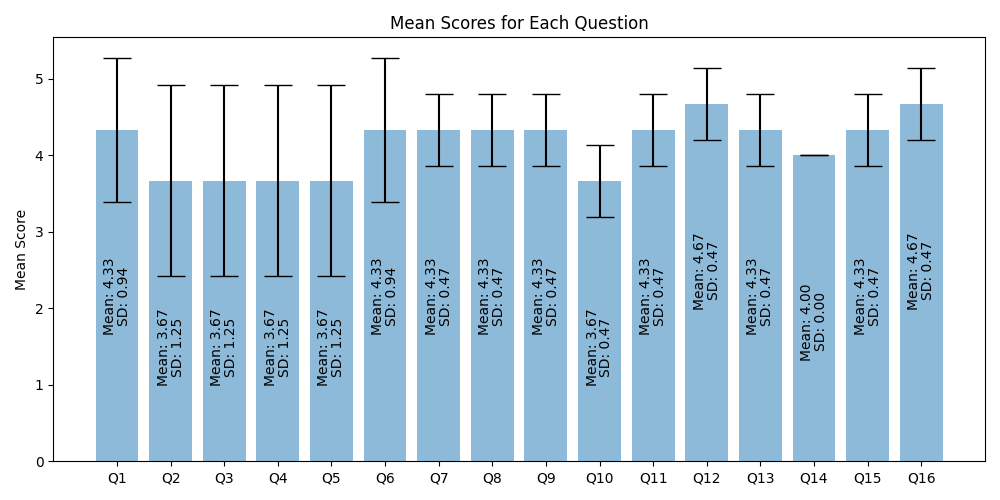
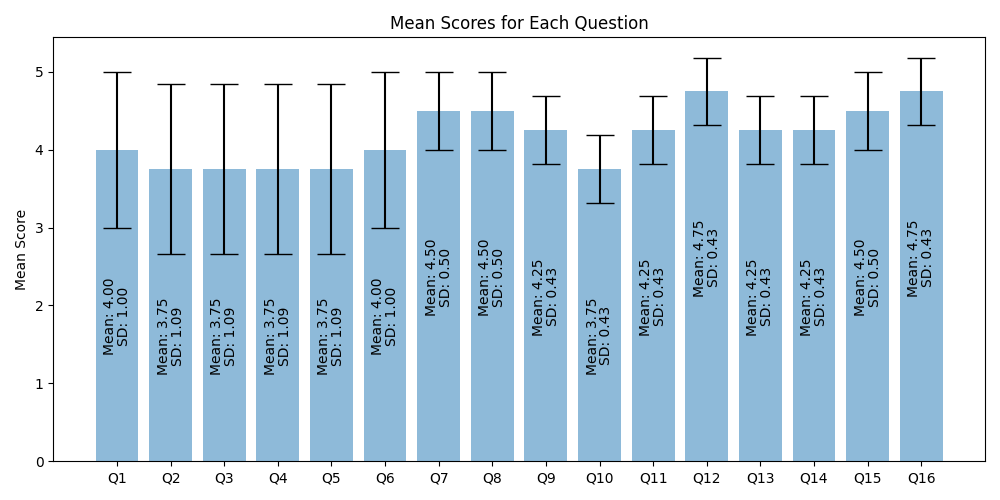
added t-04

diff --git a/aim1/descriptive_stats.py b/aim1/descriptive_stats.py
@@ -1,7 +1,7 @@
-'''This module contains code for computing descriptive statistics from aim 1 quenstionnaires.'''
+"""This module contains code for computing descriptive statistics from aim 1 quenstionnaires."""
 
-import numpy as np # type: ignore
-import matplotlib.pyplot as plt # type: ignore
+import numpy as np  # type: ignore
+import matplotlib.pyplot as plt  # type: ignore
 
 # dictionary of questions and their corresponding indices
 questions = {
@@ -20,18 +20,21 @@ questions = {
     12: "I found the CDSS very cumbersome to use, and the presented metrics were not clear.",
     13: "I would imagine that most people would learn to use this CDSS very quickly.",
     14: "The information presented by the CDSS would potentially influence patient therapy plans.",
-    15: "Presenting the information in this format is NOT useful to me or my assessment of patients."
+    15: "Presenting the information in this format is NOT useful to me or my assessment of patients.",
 }
 
 # list of questions to be reverse scored
 reverse_scored = [0, 2, 4, 9, 10, 12, 15]
 
 # scores for each question from each participant (rows are participants, columns are questions)
-scores = np.array([
-    [1, 4, 2, 4, 2, 5, 4, 4, 4, 2, 2, 5, 2, 4, 4, 1], # T-01
-    [1, 5, 1, 5, 1, 5, 5, 5, 5, 2, 1, 5, 1, 4, 5, 1], # T-02
-    [3, 2, 4, 2, 4, 3, 4, 4, 4, 3, 2, 4, 2, 4, 4, 2], # T-03
-])
+scores = np.array(
+    [
+        [1, 4, 2, 4, 2, 5, 4, 4, 4, 2, 2, 5, 2, 4, 4, 1],  # T-01
+        [1, 5, 1, 5, 1, 5, 5, 5, 5, 2, 1, 5, 1, 4, 5, 1],  # T-02
+        [3, 2, 4, 2, 4, 3, 4, 4, 4, 3, 2, 4, 2, 4, 4, 2],  # T-03
+        [3, 4, 2, 4, 2, 3, 5, 5, 4, 2, 2, 5, 2, 5, 5, 1],  # T-04
+    ]
+)
 
 # reverse score questions
 for question in reverse_scored:
@@ -43,14 +46,38 @@ stds = np.std(scores, axis=0)
 
 # plot means and standard deviations
 plt.figure(figsize=(10, 5))
-bars = plt.bar(range(len(means)), means, yerr=stds, align="center", alpha=0.5, ecolor="black", capsize=10)
+bars = plt.bar(
+    range(len(means)),
+    means,
+    yerr=stds,
+    align="center",
+    alpha=0.5,
+    ecolor="black",
+    capsize=10,
+)
 
 # Add mean and standard deviation annotations
 for i, bar in enumerate(bars):
-    plt.annotate(f"Mean: {means[i]:.2f}", xy=(bar.get_x() + bar.get_width() / 2, bar.get_height()), xytext=(-5, -120),
-                 textcoords="offset points", ha='center', va='center', rotation='vertical', color='black')
-    plt.annotate(f"SD: {stds[i]:.2f}", xy=(bar.get_x() + bar.get_width() / 2, bar.get_height()), xytext=(5, -120),
-                 textcoords="offset points", ha='center', va='center', rotation='vertical', color='black')
+    plt.annotate(
+        f"Mean: {means[i]:.2f}",
+        xy=(bar.get_x() + bar.get_width() / 2, bar.get_height()),
+        xytext=(-5, -120),
+        textcoords="offset points",
+        ha="center",
+        va="center",
+        rotation="vertical",
+        color="black",
+    )
+    plt.annotate(
+        f"SD: {stds[i]:.2f}",
+        xy=(bar.get_x() + bar.get_width() / 2, bar.get_height()),
+        xytext=(5, -120),
+        textcoords="offset points",
+        ha="center",
+        va="center",
+        rotation="vertical",
+        color="black",
+    )
 
 plt.xticks(range(len(means)), [f"Q{i+1}" for i in range(len(means))], rotation=0)
 plt.ylabel("Mean Score")
@@ -64,8 +91,16 @@ stds = np.std(scores, axis=1)
 
 # plot means and standard deviations
 plt.figure(figsize=(10, 5))
-plt.bar(range(len(means)), means, yerr=stds, align="center", alpha=0.5, ecolor="black", capsize=10)
-plt.xticks(range(len(means)), ["T-01", "T-02", "T-03"])
+plt.bar(
+    range(len(means)),
+    means,
+    yerr=stds,
+    align="center",
+    alpha=0.5,
+    ecolor="black",
+    capsize=10,
+)
+plt.xticks(range(len(means)), ["T-01", "T-02", "T-03", "T-04"])
 plt.ylabel("Mean Score")
 plt.title("Mean Scores for Each Participant")
 plt.tight_layout()

diff --git a/aim1/SUS_stats.py b/aim1/SUS_stats.py
@@ -1,57 +1,62 @@
-'''This module computes descriptive statistics for the system usability scale (SUS) questionnaire.'''
+"""This module computes descriptive statistics for the system usability scale (SUS) questionnaire."""
 
-import numpy as np # type: ignore
-import matplotlib.pyplot as plt # type: ignore
+import numpy as np  # type: ignore
+import matplotlib.pyplot as plt  # type: ignore
+
 
 def calculate_sus_scores(raw_scores):
     """
     Calculates the System Usability Scale (SUS) scores based on raw Likert scale scores.
-    
+
     Args:
         raw_scores (numpy array): 2D array of raw Likert scale scores.
             Rows represent participants, and columns represent statements.
-    
+
     Returns:
         numpy array: 1D array of SUS scores for each participant.
     """
     # Define the conversion factors for odd- and even-numbered statements
     odd_conversion = np.array([1, 3, 5, 7, 9])
     even_conversion = np.array([2, 4, 6, 8, 10])
-    
+
     # Convert the raw scores to SUS scores
     sus_scores = np.zeros(raw_scores.shape[0])  # Initialize array to store SUS scores
     for i, scores in enumerate(raw_scores):
         odd_scores = scores[odd_conversion - 1] - 1
         even_scores = 5 - scores[even_conversion - 1]
         sus_scores[i] = (np.sum(odd_scores) + np.sum(even_scores)) * 2.5
-    
+
     return sus_scores
 
+
 # Participant responses to SUS statements (1 to 10)
-sus_responses = np.array([
-    [4, 2, 4, 2, 4, 2, 4, 1, 4, 3],  # T-01
-    [5, 1, 5, 2, 5, 1, 5, 1, 5, 1],  # T-02
-    [2, 2, 4, 2, 4, 2, 5, 2, 4, 2],  # T-03
-])
+sus_responses = np.array(
+    [
+        [4, 2, 4, 2, 4, 2, 4, 1, 4, 3],  # T-01
+        [5, 1, 5, 2, 5, 1, 5, 1, 5, 1],  # T-02
+        [2, 2, 4, 2, 4, 2, 5, 2, 4, 2],  # T-03
+        [4, 2, 5, 2, 4, 1, 5, 1, 4, 2],  # T-04
+    ]
+)
 
 # Calculate SUS scores
 sus_scores = calculate_sus_scores(sus_responses)
 
 # Print SUS scores for each participant
 for i, score in enumerate(sus_scores):
-    print(f'T-0{i + 1}: {score:.2f}')
+    print(f"T-0{i + 1}: {score:.2f}")
 
 # Print mean and standard deviation of SUS scores
-print(f'Mean: {np.mean(sus_scores):.2f}')
-print(f'Standard deviation: {np.std(sus_scores):.2f}')
+print(f"Mean: {np.mean(sus_scores):.2f}")
+print(f"Standard deviation: {np.std(sus_scores):.2f}")
 
 # Plot SUS scores on bar plot, add a horizontal line at 68
 plt.figure(figsize=(10, 4))
-plt.bar(np.arange(1, 4), sus_scores, alpha=0.5, ecolor="black", capsize=10)
-plt.axhline(y=68, color='red', linestyle='--')
-plt.xticks(np.arange(1, 4), labels=['T-01', 'T-02', 'T-03'])
-plt.xlabel('Participant')
-plt.ylabel('SUS score')
+plt.bar(np.arange(1, 5), sus_scores, alpha=0.5, ecolor="black", capsize=10)
+plt.axhline(y=68, color="red", linestyle="--")
+plt.xticks(np.arange(1, 5), labels=["T-01", "T-02", "T-03", "T-04"])
+plt.xlabel("Participant")
+plt.ylabel("SUS score")
 plt.title("System Usability Scale (SUS) Scores for Each Participant")
 plt.ylim(0, 100)
 plt.tight_layout()

diff --git a/dashboard_video_key.py b/dashboard_video_key.py
@@ -36,3 +36,46 @@ video_key_p03 = {
         "GOPR0782",
     ],
 }
+
+video_key_p04 = {
+    "2023-01-15": ["GOPR0880", "GOPR0881", "GOPR0930", "GOPR1055", "GP010880"],
+    "2023-01-16": ["GOPR1066", "GOPR1102", "GOPR1122", "GOPR1123"],
+    "2023-01-17": ["GOPR1124", "GOPR1125", "GP011124"],
+    "2023-01-19": ["GOPR1126", "GOPR1127", "GOPR1128"],
+    "2023-01-29": ["GOPR1130", "GOPR1132", "GP011130"],
+    "2023-02-12": ["GOPR1133", "GP011133", "GOPR1142", "GP011142"],
+}
+
+from typing import List
+
+def min_to_decimal(mins: str) -> float:
+    """Converts a string of minutes to a decimal value.
+    
+    Args:
+        mins (str): A string of minutes in the format "MM:SS".
+    
+    Returns:
+        float: A decimal value of minutes.
+    """
+    mins, secs = mins.split(":")
+    return float(mins) + float(secs) / 60
+
+def sum_minutes(mins: List[str]) -> float:
+    """Sums a list of minutes in the format "MM:SS".
+    
+    Args:
+        mins (List[str]): A list of minutes in the format "MM:SS".
+    
+    Returns:
+        float: A decimal value of minutes.
+    """
+    return sum([min_to_decimal(m) for m in mins])
+
+d1 = sum_minutes(["17:42", "11:42", "9:37", "13:23", "7:28"])
+d2 = sum_minutes(["9:31", "6:17", "4:12", "10:19"])
+d3 = sum_minutes(["17:42", "6:12", "8:43"])
+d4 = sum_minutes(["13:29", "15:38", "2:17"])
+d5 = sum_minutes(["17:42", "14:07", "14:10"])
+d6 = sum_minutes(["17:42", "12:43", "17:42", "6:53"])
+
+print(d1, d2, d3, d4, d5, d6)

diff --git a/get_dashboard_metrics.py b/get_dashboard_metrics.py
@@ -7,7 +7,7 @@ import tqdm
 import json
 
 from typing import Dict, List
-from dashboard_video_key import video_key_p03 as video_key
+from dashboard_video_key import video_key_p04 as video_key
 from dashboard_metrics import (
     interaction_percentage,
     interactions_per_hour,
@@ -48,10 +48,10 @@ for subdir in tqdm.tqdm(subdirs):
         if file.endswith(".pkl"):
             # load the file and append to frames
             try:
-              with open(os.path.join(root, subdir, file), "rb") as p:
-                  frames[video_date].append(pickle.load(p))
+                with open(os.path.join(root, subdir, file), "rb") as p:
+                    frames[video_date].append(pickle.load(p))
             except EOFError:
-              print(f'{os.path.join(root, subdir, file)} is corrupt') # type: ignore
+                print(f"{os.path.join(root, subdir, file)} is corrupt")  # type: ignore
 
 # for each date in frames, compute metrics and store in metrics
 for date, frames_list in frames.items():
@@ -64,5 +64,5 @@ for date, frames_list in frames.items():
 # save metrics to json file and log to console
 print(metrics)
 
-with open("/workspaces/cdss-modeling/aim1_data/P-03/dashboard_metrics.json", "w") as f: # type: ignore
+with open("/workspaces/cdss-modeling/aim1_data/P-04/dashboard_metrics.json", "w") as f:  # type: ignore
     json.dump(metrics, f)

diff --git a/shan/1_multi_video_splitter.py b/shan/1_multi_video_splitter.py
@@ -53,7 +53,7 @@ def save_subclips(video_path, root):
         print("Error: ", e, " for file: ", video_path)
 
 
-filepath = "/workspaces/cdss-modeling/shan/videos/P-04"
+filepath = "/workspaces/cdss-modeling/aim1_data/P-04"
 
 # make a new folder to save subclips within filepath if it doesn't exist
 if not os.path.exists(os.path.join(filepath, "subclips")):

diff --git a/shan/2_frame_splitter.py b/shan/2_frame_splitter.py
@@ -32,7 +32,7 @@ class Video:
         cv2.destroyAllWindows()
 
 # change this line to the path of the folder containing the videos
-filepath = "/workspaces/cdss-modeling/shan/videos/P-02/subclips"
+filepath = "/workspaces/cdss-modeling/aim1_data/P-04/subclips"
 
 os.chdir(filepath)
 
